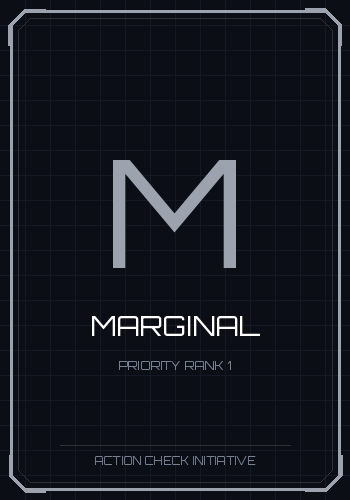
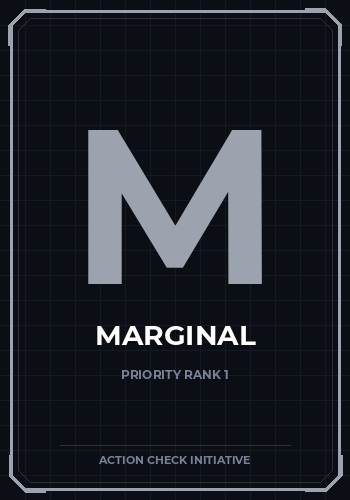
style: use Montserrat-Bold for initiative cards with large pointy letters

diff --git a/generate_cards.py b/generate_cards.py
@@ -6,15 +6,15 @@ from PIL import Image, ImageDraw, ImageFont
 out_dir = "roll20_charsheet/initiative_cards"
 os.makedirs(out_dir, exist_ok=True)
 
-# Download clean sci-fi font
-font_path = "Orbitron.ttf"
+# Download sharp geometric font (Montserrat-Bold has a very pointy, clean A and M)
+font_path = "Montserrat-Bold.ttf"
 if not os.path.exists(font_path):
-    print("Downloading Orbitron font...")
-    font_url = "https://github.com/google/fonts/raw/main/ofl/orbitron/Orbitron%5Bwght%5D.ttf"
+    print("Downloading Montserrat-Bold font...")
+    font_url = "https://github.com/JulietaUla/Montserrat/raw/master/fonts/ttf/Montserrat-Bold.ttf"
     try:
         urllib.request.urlretrieve(font_url, font_path)
     except Exception as e:
-        print(f"Failed to download font: {e}. Falling back to default.")
+        print(f"Failed to download Montserrat-Bold: {e}. Falling back to default.")
         font_path = None
 
 def get_font(size):
@@ -69,19 +69,20 @@ def draw_sci_fi_card(phase_name, priority, color_hex):
     # Bottom-Right
     draw.line([(w-10, h-45), (w-10, h-25), (w-25, h-10), (w-45, h-10)], fill=accent_color, width=4)
     
-    # Huge Central Letter (A, G, O, M)
+    # Huge Central Letter (A, G, O, M) - Pointy and Massive!
     central_letter = phase_name[0].upper()
-    font_large_letter = get_font(150)
-    draw.text((w/2, h/2 - 40), central_letter, fill=accent_color, font=font_large_letter, anchor="mm")
+    font_large_letter = get_font(220)
+    # Adjusting vertical center slightly for perfect visual balance with the larger size
+    draw.text((w/2, h/2 - 45), central_letter, fill=accent_color, font=font_large_letter, anchor="mm")
     
     # Full Phase Name below letter
     font_phase = get_font(28)
-    draw.text((w/2, h/2 + 75), phase_name.upper(), fill=white, font=font_phase, anchor="mm")
+    draw.text((w/2, h/2 + 85), phase_name.upper(), fill=white, font=font_phase, anchor="mm")
     
     # Subtitle with tech priority
     font_desc = get_font(12)
     desc_text = f"PRIORITY RANK {priority}"
-    draw.text((w/2, h/2 + 115), desc_text, fill=gray, font=font_desc, anchor="mm")
+    draw.text((w/2, h/2 + 125), desc_text, fill=gray, font=font_desc, anchor="mm")
     
     # Tech lines at bottom
     draw.line([(60, h-55), (w-60, h-55)], fill=accent_dim, width=1)
